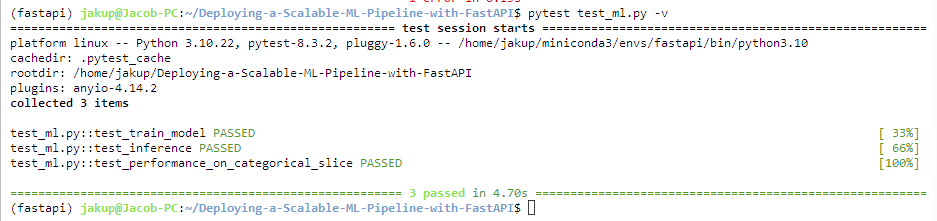
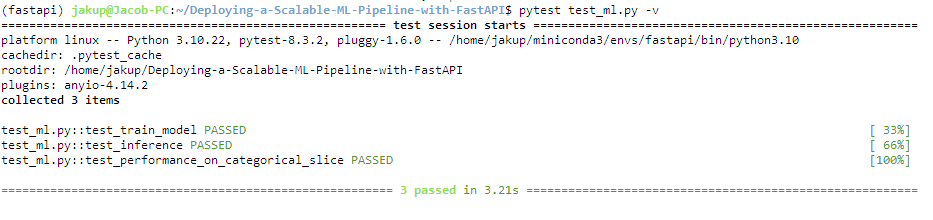
Revised third unit test

diff --git a/test_ml.py b/test_ml.py
@@ -143,6 +143,14 @@ def sample_data():
     ]
     return data, cat_features
 
+class DummyModel:
+    """Mock classifier that returns predetermined predictions."""
+
+    def __init__(self, predictions):
+        self.predictions = np.array(predictions)
+
+    def predict(self, X):
+        return self.predictions
 
 def test_train_model(sample_data):
     """Tests that train_model returns a fitted RandomForestClassifier."""
@@ -176,7 +184,28 @@ def test_performance_on_categorical_slice(sample_data):
     X, y, encoder, lb = process_data(
         data, categorical_features=cat_features, label="salary", training=True
     )
-    model = train_model(X, y)
+    # In sample_data, there are 6 "Male" rows at original indices:
+    # Index 0: <=50K (0)
+    # Index 1: <=50K (0)
+    # Index 2: <=50K (0)
+    # Index 3: <=50K (0)
+    # Index 7: >50K  (1)
+    # Index 9: >50K  (1)
+    #
+    # Actual labels (y_true) for "Male" slice: [0, 0, 0, 0, 1, 1]
+    # Mock predictions (y_pred):              [1, 0, 0, 0, 1, 0]
+    #
+    # Confusion Matrix Breakdown:
+    # - True Positives (TP)  = 1 (slice index 4 / original index 7)
+    # - False Positives (FP) = 1 (slice index 0 / original index 0)
+    # - False Negatives (FN) = 1 (slice index 5 / original index 9)
+    # - True Negatives (TN)  = 3 (slice indices 1, 2, 3)
+    #
+    # Expected Precision = 1 / (1 + 1) = 0.5
+    # Expected Recall    = 1 / (1 + 1) = 0.5
+    # Expected F1        = 2 * (0.5 * 0.5) / (0.5 + 0.5) = 0.5
+    mock_model = DummyModel(predictions=[1, 0, 0, 0, 1, 0])
+
 
     precision, recall, fbeta = performance_on_categorical_slice(
         data=data,
@@ -186,12 +215,9 @@ def test_performance_on_categorical_slice(sample_data):
         label="salary",
         encoder=encoder,
         lb=lb,
-        model=model,
+        model=mock_model,
     )
 
-    assert isinstance(precision, float)
-    assert isinstance(recall, float)
-    assert isinstance(fbeta, float)
-    assert 0.0 <= precision <= 1.0
-    assert 0.0 <= recall <= 1.0
-    assert 0.0 <= fbeta <= 1.0
+    assert precision == pytest.approx(0.5)
+    assert recall == pytest.approx(0.5)
+    assert fbeta == pytest.approx(0.5)
